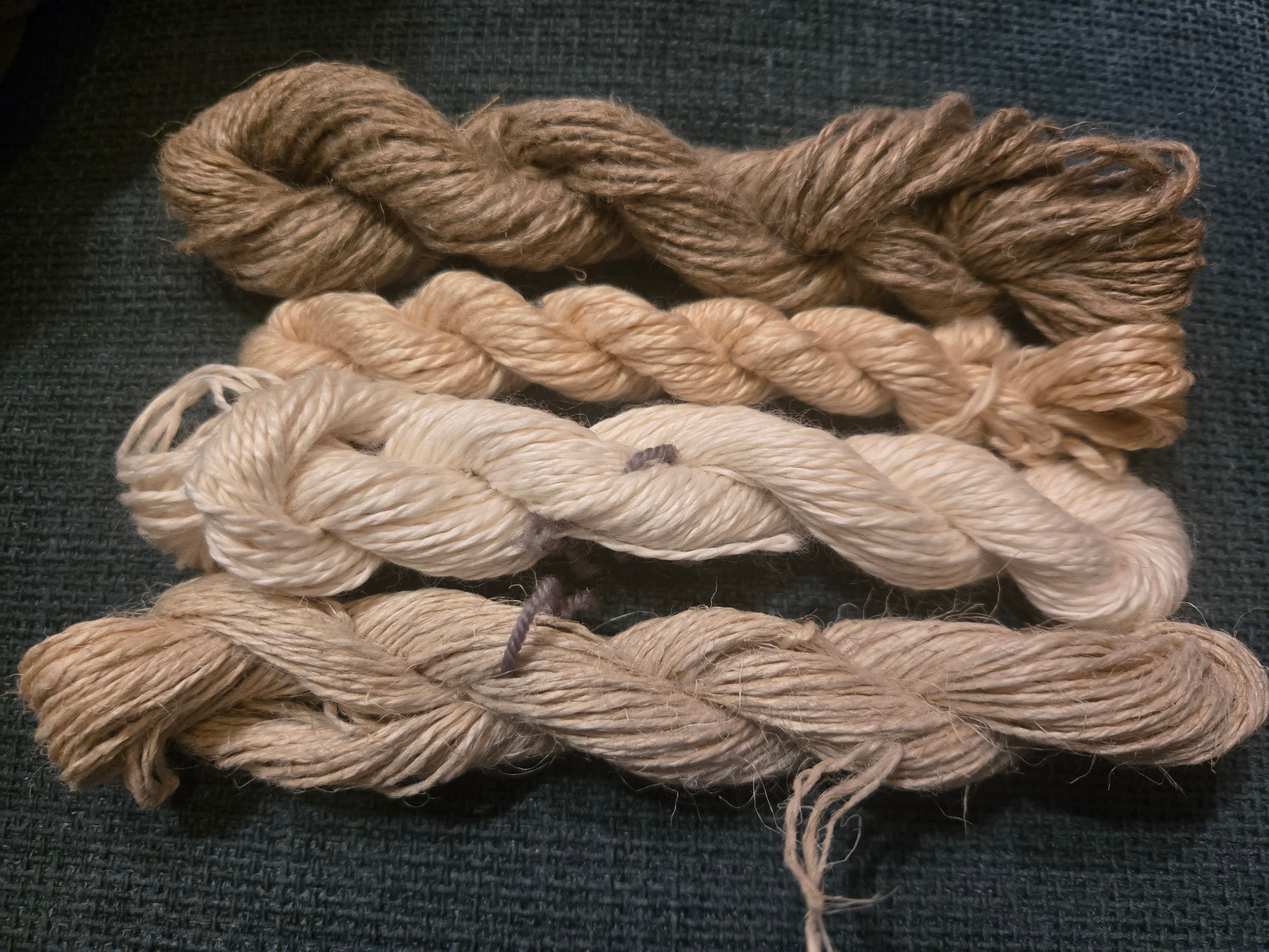
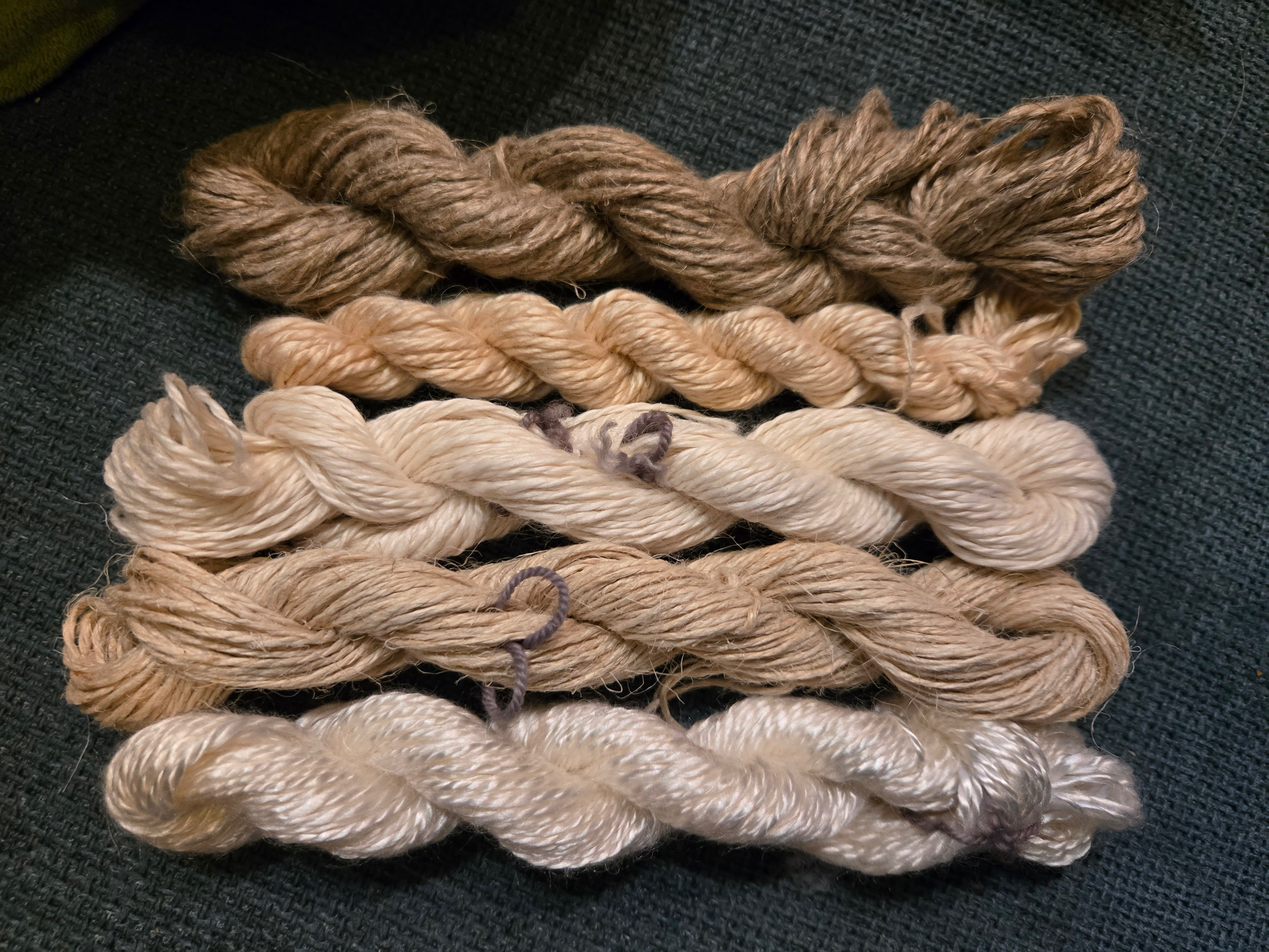
add tencel to pictures and data

diff --git a/_posts/2026/2026-01-11-spinning-plants.md b/_posts/2026/2026-01-11-spinning-plants.md
@@ -4,7 +4,7 @@ title: spinning plants
 category: reference
 image:
     name: 2026/plant-handspun.jpg
-    alt: "4 small skeins of handspun yarn, each made from a different plant fiber. from top, we have flax (medium brown, rough); what is probably lotus (golden, shiny and soft); banana (white and shiny); hemp (light brown, rough)"
+    alt: "5 small skeins of handspun yarn, each made from a different plant fiber. from top, we have flax (medium brown, rough); what is probably lotus (golden, shiny and soft); banana (white and semi shiny); hemp (light brown, rough); tencel (white and very shiny)"
 tags:
     - yarn
 ---
@@ -16,6 +16,7 @@ in picture, from top:
 - (probably) lotus
 - banana
 - hemp
+- tencel
 
 notes on handspinning various plant fibers. Fibers were purchased as a [sample pack from Hearthside Fibers](https://www.etsy.com/listing/1141552359/plant-based-fiber-top-sampler-pack-vegan){:target="_blank"}. Unfortunately, I spun the first sample - flax - in 2023, so don't have thoughts on that left in my head. I also received a mystery sample along with the 12 named samples that *may* have been lotus - it's the smallest skein in the image. The lotus was also spun in 2023.
 
@@ -41,7 +42,7 @@ I am estimating this via yards per gram of fiber. Other than the flax (can't pro
 | flax | 33 | 27 | 1.22 |
 | hemp | 41 | 26 | 1.58 |
 | rose | 61\* | | |
-| tencel | 31 | | |
+| tencel | 31 | 29 | 1.07 |
 
 \* I need to re-spin the ply on the rose as it is too loose. This number will change.
 
